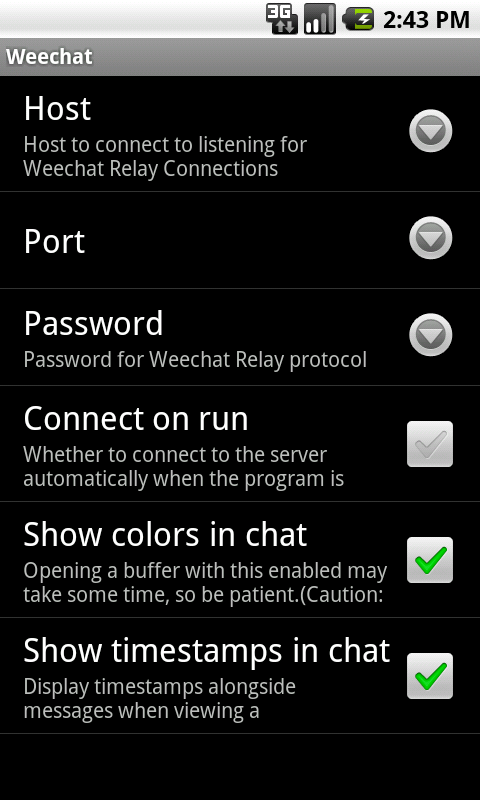
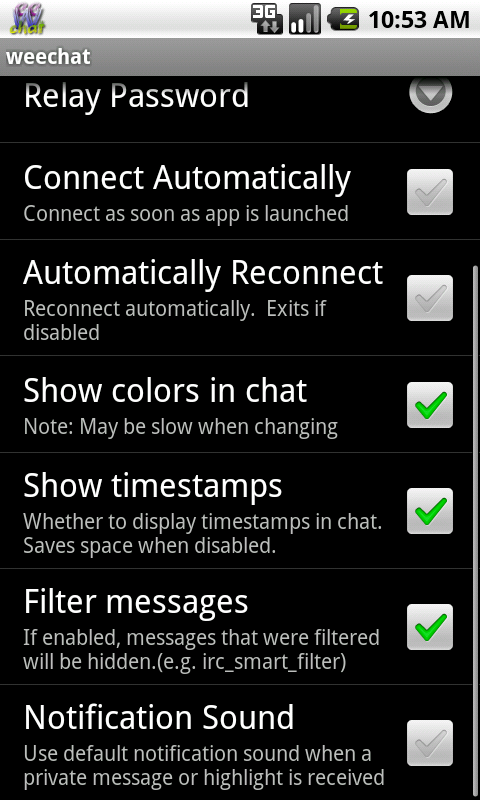
Update readme/screenshots
Readme updated for the release of weechat-android 0.05-dev
Screenshots updated to make the current state of things

Changed region(s): [[0.0, 0.0, 0.8125, 1.0], [0.8438, 0.0938, 1.0, 1.0], [0.5, 0.0, 0.9375, 0.0625]]

diff --git a/Readme.md b/Readme.md
@@ -1,33 +1,39 @@
-Weechat Android Relay Client v0.03
+Weechat Android Relay Client v0.05-dev
 ==================================
 This is an Android Weechat Relay client.
-It should be treated as pre-alpha software, with no expectations of functionality.(However, in my limited tests it seems to mostly work)
+It is currently in beta status, with most things working.  It has not been extensively tested, so it may force close or drain your battery excessively.(However, in my limited testing it seems quite fine, I use it daily)
 
 ###Download
-USE AT YOUR OWN RISK! This is alpha software and I am not responsible if your device bursts into flames, you lose all of your data, or if anything else bad happens.
+Either scan the QR code, or click the link to download the apk.  Click on it and choose to install. [Download Link](https://github.com/downloads/ubergeek42/weechat-android/weechat-0.05-dev.apk)
 
-Either scan the QR code, or click the link to download the apk.  Click on it and choose to install. [Download Link](https://github.com/downloads/ubergeek42/weechat-android/weechat-0.03.apk)
-
-![Download](https://chart.googleapis.com/chart?cht=qr&chs=200x200&chl=https://github.com/downloads/ubergeek42/weechat-android/weechat-0.03.apk)
+![Download](https://chart.googleapis.com/chart?cht=qr&chs=200x200&chl=https://github.com/downloads/ubergeek42/weechat-android/weechat-0.05-dev.apk)
 
 ### Bug Reports and Feature Requests Welcome!
 Please report any bugs or feature requests here on github, or send me an email: kj@ubergeek42.com
 
 ###Basic Usage
 At the main screen, press menu, then choose preferences.
-Configure your hostname, port, and password.  You can also choose to connect automatically next time the app runs, or enable colors(May be a little slow at times).
+Configure your hostname, port, and password.  Some other options:
 
-Then press Menu->Connect to connect to the server. If successful you will see a list of your weechat buffers.  Clicking on a buffer opens it in a new tab.  A buffer currently displays the 50 most recent lines.  I plan to make this configurable in the future(More is slower).
+* Connect Automatically - Connects to the weechat relay as soon as the program starts
+* Automatically reconnect
+* Colors in chat(may be slow depending on device)
+* Timestamps can be toggled to make better use of screen space
+* Messages filtered by weechat can be filtered here(e.g. irc_smart_filter)
+* Play the default notification sound on highlight/private message
 
-To see the nicklist for the current buffer, press menu, then choose nicklist.
+Then press Menu->Connect to connect to the server. If successful you will see a list of your weechat buffers.  Clicking on a buffer opens it.  A buffer currently displays the 200 most recent lines(including possible filtered lines).  I plan to make this configurable in the future(More is slower).
 
-The back button exits(and disconnects).  There is currently no support for running in the background.
+The nicklist is missing from this version, I'm looking at the most useful way to add it back.
 
+The app does run in the background, however if you would like to exit it, from the buffers list menu->quit.  I've run it in the background all day with no real noticable drain on my battery.
+
+### Requirements
+* Weechat v0.3.7
+* If you want support for highlights(private message notifications will work otherwise), you must be using Weechat v0.3.8-dev after March 6th.
 
 ###Source Code
-There are 3 basic parts to this, the android application, the java library which provides most of
-the functionality of connecting to the weechat relay server, and an example client showing the basic
-features of that library.
+There are 3 basic parts to this, the android application, the java library which provides most of the functionality of connecting to the weechat relay server, and an example client showing the basic features of that library.
 
 * weechat - An eclipse project to build the Android sample application(May require modifying the library path to include weechat-relay.jar from weechat-relay, you may also need slf4j/slf4j-android)
 * weechat-relay - A library implementing the Weechat Relay Protocol
@@ -35,7 +41,7 @@ features of that library.
 
 You can build these projects by running 'ant' from this directory. If you wish to build them individually, you must build weechat-relay(the library) first.
 
-To build the android application, you will need to 'cd weechat', then run 'android update project --path .' before running ant.
+To build the android application, you will need to 'cd weechat-android', then run 'android update project --path .' before running ant.
 
 For more details about Weechat and the Relay Protocol:
 
@@ -46,10 +52,19 @@ For more details about Weechat and the Relay Protocol:
 <a href="https://github.com/ubergeek42/weechat-android/raw/master/releases/chat-channel.png"><img src="https://github.com/ubergeek42/weechat-android/raw/master/releases/chat-channel.png" width="400px"></a>
 
 <a href="https://github.com/ubergeek42/weechat-android/raw/master/releases/preferences.png"><img src="https://github.com/ubergeek42/weechat-android/raw/master/releases/preferences.png" height="400px"></a>
-<a href="https://github.com/ubergeek42/weechat-android/raw/master/releases/buffers-tab.png"><img src="https://github.com/ubergeek42/weechat-android/raw/master/releases/buffers-tab.png" height="400px"></a>
-<a href="https://github.com/ubergeek42/weechat-android/raw/master/releases/buffer-colors.png"><img src="https://github.com/ubergeek42/weechat-android/raw/master/releases/buffer-colors.png" height="400px"></a>
+<a href="https://github.com/ubergeek42/weechat-android/raw/master/releases/buffers.png"><img src="https://github.com/ubergeek42/weechat-android/raw/master/releases/buffers.png" height="400px"></a>
+<a href="https://github.com/ubergeek42/weechat-android/raw/master/releases/notifications.png"><img src="https://github.com/ubergeek42/weechat-android/raw/master/releases/notifications.png" height="400px"></a>
 
 ### Changelog
+#### v0.05-dev
+* Complete rewrite of the frontend
+* Support Notifications
+* Background service
+* Message filters
+
+#### v.0.04
+* Skipped
+
 #### v0.03
 * Preferences for Colors/Timestamp
 * Highlight support for messages
